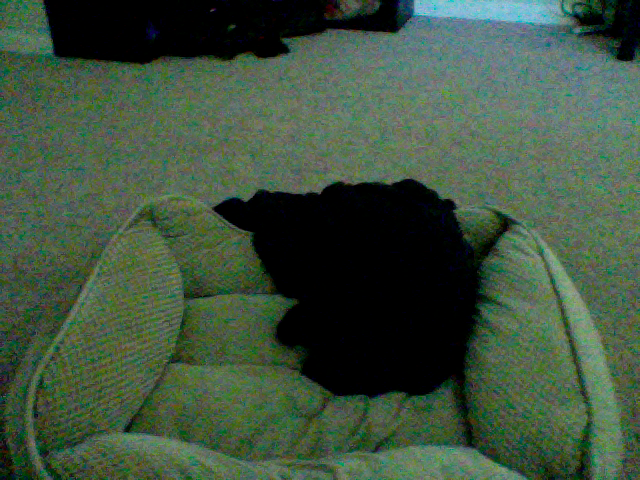
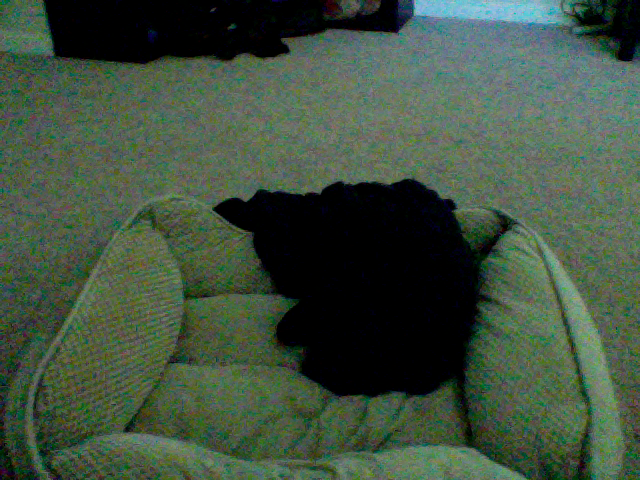
update at Month05Day08Time18:08

diff --git a/index.html b/index.html
@@ -40,7 +40,7 @@
       <div class="row">
         <div class="col-md-4">
 	<p>This picture was updated at Month05Day08Time18:08</p>
-		<img src="7_pic.png" />
+		<img src="6_pic.png" />
         </div>
       </div>
 
